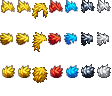
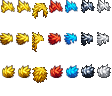
SSJ3 side hair: sprite shift instead of draw-time patch (fixes vanishing shirt)
The Harmony draw-offset shifted the whole hair/accessory layer, dragging the
shirt sleeve with it. Removed the patch (and its config/GMCM/Harmony refs) and
instead shifted the SSJ3 side frame 3px in the sprite, redrawing the trailing
strands that clipped so the mane stays complete and faithful.

Changed region(s): [[0.2679, 0.3125, 0.4286, 0.5625]]

diff --git a/ModEntry.cs b/ModEntry.cs
@@ -40,9 +40,6 @@ namespace SaiyanTransformations
             "boss_roar", "boss_defeat", "dodge"
         };
 
-        /// <summary>Set in Entry so Harmony patches (which must be static) can reach config.</summary>
-        internal static ModEntry Instance;
-
         internal ModConfig Config;
         internal Texture2D AuraTexture;
         internal Texture2D LightningTexture;
@@ -93,7 +90,6 @@ namespace SaiyanTransformations
 
         public override void Entry(IModHelper helper)
         {
-            Instance = this;
             this.Config = helper.ReadConfig<ModConfig>();
             this.Fx = new FxRenderer(this);
             this.Techniques = new TechniqueManager(this, this.Fx);
@@ -127,19 +123,6 @@ namespace SaiyanTransformations
                 "Saiyan Transformations.\n\n"
                 + "Usage: saiyan status | unlock_all | form <1-6> | off | bosses | clearboss | pose <n>",
                 this.OnCommand);
-
-            // draw-time hair nudge (see HairOffsetPatch). Wrapped so a signature mismatch in a
-            // future game version just skips the cosmetic patch instead of breaking the mod.
-            try
-            {
-                var harmony = new HarmonyLib.Harmony(this.ModManifest.UniqueID);
-                harmony.PatchAll();
-            }
-            catch (Exception ex)
-            {
-                this.Monitor.Log($"Could not apply the hair-offset patch; hair will draw normally. "
-                                 + $"({ex.Message})", LogLevel.Warn);
-            }
         }
 
         // ------------------------------------------------------------ setup
@@ -232,8 +215,6 @@ namespace SaiyanTransformations
             gmcm.AddBoolOption(m, () => this.Config.ShowPowerLevel, v => this.Config.ShowPowerLevel = v, () => "Show power level");
             gmcm.AddBoolOption(m, () => this.Config.ScreenFlash, v => this.Config.ScreenFlash = v, () => "Screen flash");
             gmcm.AddNumberOption(m, () => this.Config.AuraLoopVolume, v => this.Config.AuraLoopVolume = v, () => "Aura hum volume", null, 0f, 1f, 0.05f);
-            gmcm.AddBoolOption(m, () => this.Config.FixSaiyanSideHair, v => this.Config.FixSaiyanSideHair = v, () => "Seat SSJ3 side hair");
-            gmcm.AddNumberOption(m, () => this.Config.SaiyanSideHairOffsetPx, v => this.Config.SaiyanSideHairOffsetPx = v, () => "SSJ3 side hair shift (px)", null, 0, 8, 1);
         }
 
         /// <summary>Apply a one-click difficulty preset by overwriting the boss scaling dials.

diff --git a/ModConfig.cs b/ModConfig.cs
@@ -492,14 +492,6 @@ namespace SaiyanTransformations
         /// <summary>Continuous aura roar while transformed.</summary>
         public bool AuraLoopSound { get; set; } = true;
 
-        /// <summary>Nudge the Super Saiyan 3 mane toward the back of the head when facing
-        /// sideways, so it seats on the head instead of floating forward. Done at draw time
-        /// (the hair sprite is untouched, nothing is clipped).</summary>
-        public bool FixSaiyanSideHair { get; set; } = true;
-
-        /// <summary>How many source pixels to shift the SSJ3 side hair by.</summary>
-        public int SaiyanSideHairOffsetPx { get; set; } = 3;
-
         /// <summary>Volume of the continuous aura roar, 0-1. Lowered by default so the
         /// constant hum is easier to live with over a long session.</summary>
         public float AuraLoopVolume { get; set; } = 0.5f;
